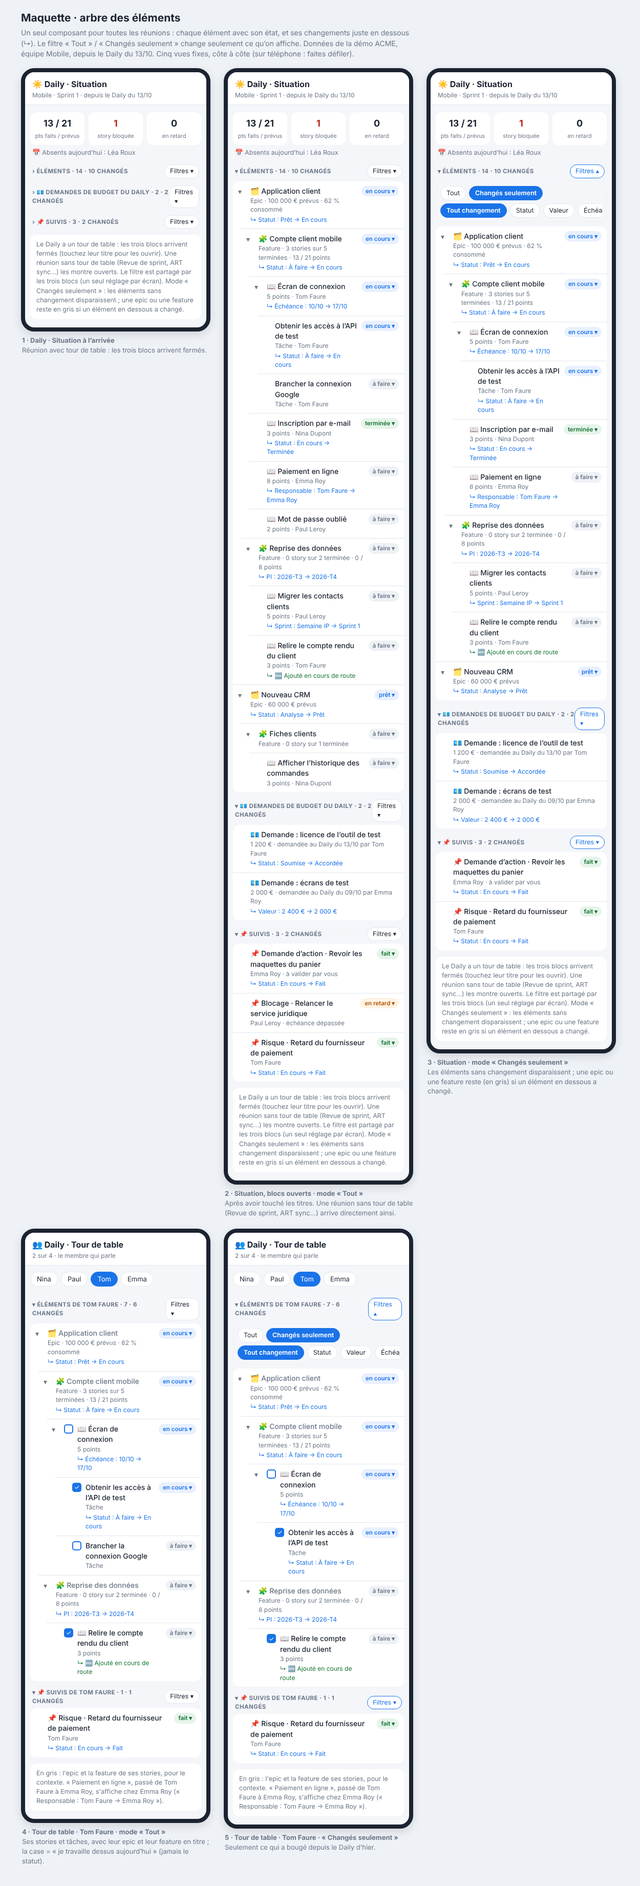
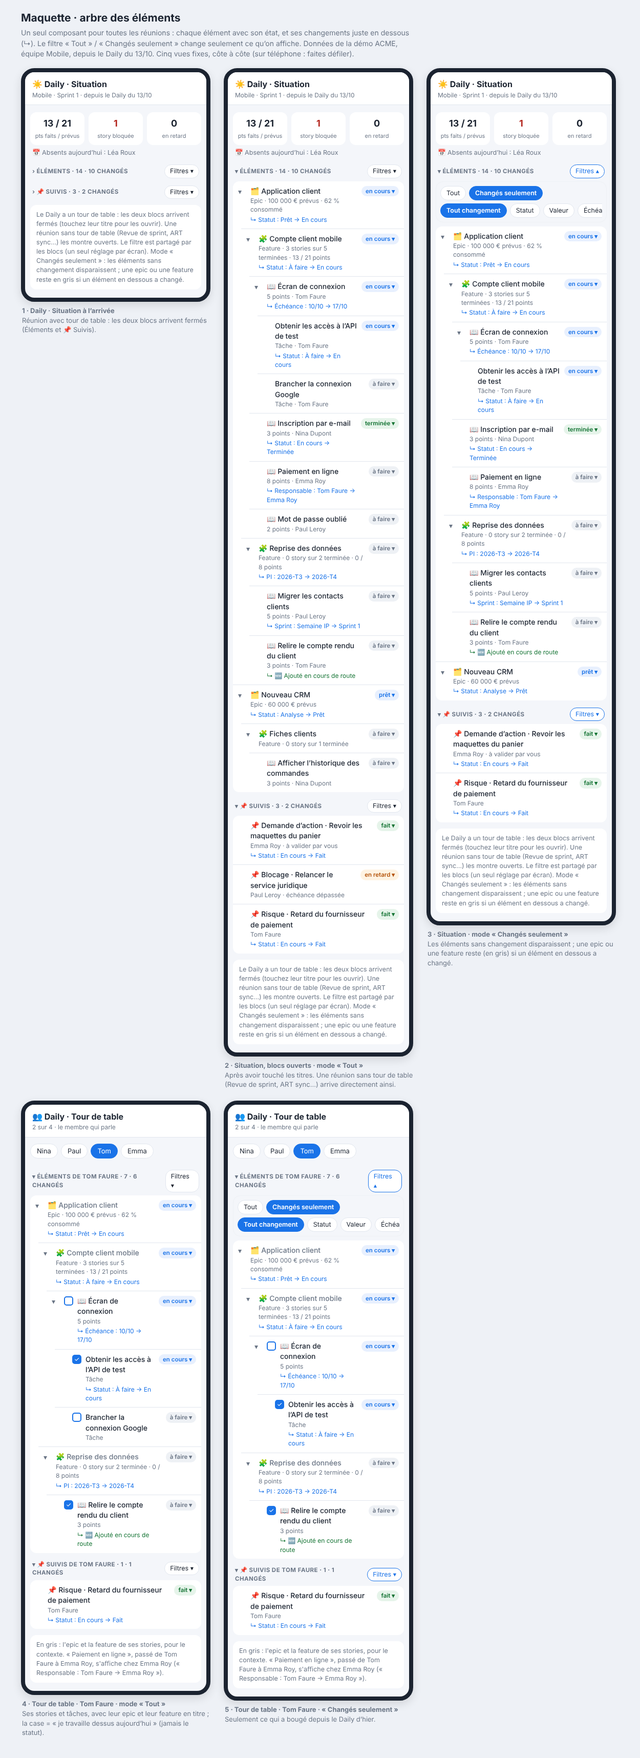
Maquette de l'arbre : pas de bloc budget au Daily (une demande à suivre l'est par un suivi)
Claude-Session: https://claude.ai/code/session_01NqfD5QsV4p5L1RMm4JPLKo

diff --git a/docs/maquette-arbre.html b/docs/maquette-arbre.html
@@ -54,11 +54,10 @@ h1{font-size:21px;margin:0 0 4px}.intro{color:var(--doux);margin:0 0 18px;max-wi
     <div class="tuiles"><div class="tuile"><b>13 / 21</b><span>pts faits / prévus</span></div><div class="tuile"><b class="r" style="color:var(--rouge)">1</b><span>story bloquée</span></div><div class="tuile"><b>0</b><span>en retard</span></div></div>
     <div style="font-size:12.5px;color:var(--doux);margin:4px 4px 0">📅 Absents aujourd’hui : Léa Roux</div>
     <div class="sec"><h3 style="cursor:pointer" data-bloc="sit" data-id="el">› Éléments · 14 · 10 changés</h3><span class="pfiltre " data-o="sit" data-b="el">Filtres ▾</span></div>
-  <div class="sec"><h3 style="cursor:pointer" data-bloc="sit" data-id="bu">› 💶 Demandes de budget du Daily · 2 · 2 changés</h3><span class="pfiltre " data-o="sit" data-b="bu">Filtres ▾</span></div>
   <div class="sec"><h3 style="cursor:pointer" data-bloc="sit" data-id="su">› 📌 Suivis · 3 · 2 changés</h3><span class="pfiltre " data-o="sit" data-b="su">Filtres ▾</span></div>
   
-    <div class="note">Le Daily a un tour de table : les trois blocs arrivent fermés (touchez leur titre pour les ouvrir). Une réunion sans tour de table (Revue de sprint, ART sync…) les montre ouverts. Le filtre est partagé par les trois blocs (un seul réglage par écran). Mode « Changés seulement » : les éléments sans changement disparaissent ; une epic ou une feature reste en gris si un élément en dessous a changé.</div></div></div>
-    <p class="legende"><b>1 · Daily · Situation à l’arrivée</b><br>Réunion avec tour de table : les trois blocs arrivent fermés.</p>
+    <div class="note">Le Daily a un tour de table : les deux blocs arrivent fermés (touchez leur titre pour les ouvrir). Une réunion sans tour de table (Revue de sprint, ART sync…) les montre ouverts. Le filtre est partagé par les blocs (un seul réglage par écran). Mode « Changés seulement » : les éléments sans changement disparaissent ; une epic ou une feature reste en gris si un élément en dessous a changé.</div></div></div>
+    <p class="legende"><b>1 · Daily · Situation à l’arrivée</b><br>Réunion avec tour de table : les deux blocs arrivent fermés (Éléments et 📌 Suivis).</p>
   </div>
   <div>
     <div class="tel"><div class="haut"><div class="t">☀ Daily · Situation</div><div class="st">Mobile · Sprint 1 · depuis le Daily du 13/10</div></div><div class="corps">
@@ -66,12 +65,10 @@ h1{font-size:21px;margin:0 0 4px}.intro{color:var(--doux);margin:0 0 18px;max-wi
     <div style="font-size:12.5px;color:var(--doux);margin:4px 4px 0">📅 Absents aujourd’hui : Léa Roux</div>
     <div class="sec"><h3 style="cursor:pointer" data-bloc="sit" data-id="el">▾ Éléments · 14 · 10 changés</h3><span class="pfiltre " data-o="sit" data-b="el">Filtres ▾</span></div>
   
-  <div class="carte"><div class="noeud"><div class="ligne "><span class="fl" data-e="sit" data-n="e1">▾</span><div class="l1"><div class="ti">🗂 Application client</div><div class="s">Epic · 100 000 € prévus · 62 % consommé</div><div class="ch ">↳ Statut : Prêt → En cours</div></div><span class="past p-e">en cours ▾</span></div><div class="enfants"><div class="noeud"><div class="ligne "><span class="fl" data-e="sit" data-n="f1">▾</span><div class="l1"><div class="ti">🧩 Compte client mobile</div><div class="s">Feature · 3 stories sur 5 terminées · 13 / 21 points</div><div class="ch ">↳ Statut : À faire → En cours</div></div><span class="past p-e">en cours ▾</span></div><div class="enfants"><div class="noeud"><div class="ligne "><span class="fl" data-e="sit" data-n="s1">▾</span><div class="l1"><div class="ti">📖 Écran de connexion</div><div class="s">5 points · Tom Faure</div><div class="ch ">↳ Échéance : 10/10 → 17/10</div></div><span class="past p-e">en cours ▾</span></div><div class="enfants"><div class="noeud"><div class="ligne "><span class="fl"></span><div class="l1"><div class="ti">Obtenir les accès à l’API de test</div><div class="s">Tâche · Tom Faure</div><div class="ch ">↳ Statut : À faire → En cours</div></div><span class="past p-e">en cours ▾</span></div></div><div class="noeud"><div class="ligne "><span class="fl"></span><div class="l1"><div class="ti">Brancher la connexion Google</div><div class="s">Tâche · Tom Faure</div></div><span class="past p-a">à faire ▾</span></div></div></div></div><div class="noeud"><div class="ligne "><span class="fl"></span><div class="l1"><div class="ti">📖 Inscription par e-mail</div><div class="s">3 points · Nina Dupont</div><div class="ch ">↳ Statut : En cours → Terminée</div></div><span class="past p-t">terminée ▾</span></div></div><div class="noeud"><div class="ligne "><span class="fl"></span><div class="l1"><div class="ti">📖 Paiement en ligne</div><div class="s">8 points · Emma Roy</div><div class="ch ">↳ Responsable : Tom Faure → Emma Roy</div></div><span class="past p-a">à faire ▾</span></div></div><div class="noeud"><div class="ligne "><span class="fl"></span><div class="l1"><div class="ti">📖 Mot de passe oublié</div><div class="s">2 points · Paul Leroy</div></div><span class="past p-a">à faire ▾</span></div></div></div></div><div class="noeud"><div class="ligne "><span class="fl" data-e="sit" data-n="f2">▾</span><div class="l1"><div class="ti">🧩 Reprise des données</div><div class="s">Feature · 0 story sur 2 terminée · 0 / 8 points</div><div class="ch ">↳ PI : 2026-T3 → 2026-T4</div></div><span class="past p-a">à faire ▾</span></div><div class="enfants"><div class="noeud"><div class="ligne "><span class="fl"></span><div class="l1"><div class="ti">📖 Migrer les contacts clients</div><div class="s">5 points · Paul Leroy</div><div class="ch ">↳ Sprint : Semaine IP → Sprint 1</div></div><span class="past p-a">à faire ▾</span></div></div><div class="noeud"><div class="ligne "><span class="fl"></span><div class="l1"><div class="ti">📖 Relire le compte rendu du client</div><div class="s">3 points · Tom Faure</div><div class="ch nouv">↳ 🆕 Ajouté en cours de route</div></div><span class="past p-a">à faire ▾</span></div></div></div></div></div></div><div class="noeud"><div class="ligne "><span class="fl" data-e="sit" data-n="e2">▾</span><div class="l1"><div class="ti">🗂 Nouveau CRM</div><div class="s">Epic · 60 000 € prévus</div><div class="ch ">↳ Statut : Analyse → Prêt</div></div><span class="past p-e">prêt ▾</span></div><div class="enfants"><div class="noeud"><div class="ligne "><span class="fl" data-e="sit" data-n="f3">▾</span><div class="l1"><div class="ti">🧩 Fiches clients</div><div class="s">Feature · 0 story sur 1 terminée</div></div><span class="past p-a">à faire ▾</span></div><div class="enfants"><div class="noeud"><div class="ligne "><span class="fl"></span><div class="l1"><div class="ti">📖 Afficher l’historique des commandes</div><div class="s">3 points · Nina Dupont</div></div><span class="past p-a">à faire ▾</span></div></div></div></div></div></div></div><div class="sec"><h3 style="cursor:pointer" data-bloc="sit" data-id="bu">▾ 💶 Demandes de budget du Daily · 2 · 2 changés</h3><span class="pfiltre " data-o="sit" data-b="bu">Filtres ▾</span></div>
-  
-  <div class="carte"><div class="noeud"><div class="ligne "><span class="fl"></span><div class="l1"><div class="ti">💶 Demande : licence de l’outil de test</div><div class="s">1 200 € · demandée au Daily du 13/10 par Tom Faure</div><div class="ch ">↳ Statut : Soumise → Accordée</div></div></div></div><div class="noeud"><div class="ligne "><span class="fl"></span><div class="l1"><div class="ti">💶 Demande : écrans de test</div><div class="s">2 000 € · demandée au Daily du 09/10 par Emma Roy</div><div class="ch ">↳ Valeur : 2 400 € → 2 000 €</div></div></div></div></div><div class="sec"><h3 style="cursor:pointer" data-bloc="sit" data-id="su">▾ 📌 Suivis · 3 · 2 changés</h3><span class="pfiltre " data-o="sit" data-b="su">Filtres ▾</span></div>
+  <div class="carte"><div class="noeud"><div class="ligne "><span class="fl" data-e="sit" data-n="e1">▾</span><div class="l1"><div class="ti">🗂 Application client</div><div class="s">Epic · 100 000 € prévus · 62 % consommé</div><div class="ch ">↳ Statut : Prêt → En cours</div></div><span class="past p-e">en cours ▾</span></div><div class="enfants"><div class="noeud"><div class="ligne "><span class="fl" data-e="sit" data-n="f1">▾</span><div class="l1"><div class="ti">🧩 Compte client mobile</div><div class="s">Feature · 3 stories sur 5 terminées · 13 / 21 points</div><div class="ch ">↳ Statut : À faire → En cours</div></div><span class="past p-e">en cours ▾</span></div><div class="enfants"><div class="noeud"><div class="ligne "><span class="fl" data-e="sit" data-n="s1">▾</span><div class="l1"><div class="ti">📖 Écran de connexion</div><div class="s">5 points · Tom Faure</div><div class="ch ">↳ Échéance : 10/10 → 17/10</div></div><span class="past p-e">en cours ▾</span></div><div class="enfants"><div class="noeud"><div class="ligne "><span class="fl"></span><div class="l1"><div class="ti">Obtenir les accès à l’API de test</div><div class="s">Tâche · Tom Faure</div><div class="ch ">↳ Statut : À faire → En cours</div></div><span class="past p-e">en cours ▾</span></div></div><div class="noeud"><div class="ligne "><span class="fl"></span><div class="l1"><div class="ti">Brancher la connexion Google</div><div class="s">Tâche · Tom Faure</div></div><span class="past p-a">à faire ▾</span></div></div></div></div><div class="noeud"><div class="ligne "><span class="fl"></span><div class="l1"><div class="ti">📖 Inscription par e-mail</div><div class="s">3 points · Nina Dupont</div><div class="ch ">↳ Statut : En cours → Terminée</div></div><span class="past p-t">terminée ▾</span></div></div><div class="noeud"><div class="ligne "><span class="fl"></span><div class="l1"><div class="ti">📖 Paiement en ligne</div><div class="s">8 points · Emma Roy</div><div class="ch ">↳ Responsable : Tom Faure → Emma Roy</div></div><span class="past p-a">à faire ▾</span></div></div><div class="noeud"><div class="ligne "><span class="fl"></span><div class="l1"><div class="ti">📖 Mot de passe oublié</div><div class="s">2 points · Paul Leroy</div></div><span class="past p-a">à faire ▾</span></div></div></div></div><div class="noeud"><div class="ligne "><span class="fl" data-e="sit" data-n="f2">▾</span><div class="l1"><div class="ti">🧩 Reprise des données</div><div class="s">Feature · 0 story sur 2 terminée · 0 / 8 points</div><div class="ch ">↳ PI : 2026-T3 → 2026-T4</div></div><span class="past p-a">à faire ▾</span></div><div class="enfants"><div class="noeud"><div class="ligne "><span class="fl"></span><div class="l1"><div class="ti">📖 Migrer les contacts clients</div><div class="s">5 points · Paul Leroy</div><div class="ch ">↳ Sprint : Semaine IP → Sprint 1</div></div><span class="past p-a">à faire ▾</span></div></div><div class="noeud"><div class="ligne "><span class="fl"></span><div class="l1"><div class="ti">📖 Relire le compte rendu du client</div><div class="s">3 points · Tom Faure</div><div class="ch nouv">↳ 🆕 Ajouté en cours de route</div></div><span class="past p-a">à faire ▾</span></div></div></div></div></div></div><div class="noeud"><div class="ligne "><span class="fl" data-e="sit" data-n="e2">▾</span><div class="l1"><div class="ti">🗂 Nouveau CRM</div><div class="s">Epic · 60 000 € prévus</div><div class="ch ">↳ Statut : Analyse → Prêt</div></div><span class="past p-e">prêt ▾</span></div><div class="enfants"><div class="noeud"><div class="ligne "><span class="fl" data-e="sit" data-n="f3">▾</span><div class="l1"><div class="ti">🧩 Fiches clients</div><div class="s">Feature · 0 story sur 1 terminée</div></div><span class="past p-a">à faire ▾</span></div><div class="enfants"><div class="noeud"><div class="ligne "><span class="fl"></span><div class="l1"><div class="ti">📖 Afficher l’historique des commandes</div><div class="s">3 points · Nina Dupont</div></div><span class="past p-a">à faire ▾</span></div></div></div></div></div></div></div><div class="sec"><h3 style="cursor:pointer" data-bloc="sit" data-id="su">▾ 📌 Suivis · 3 · 2 changés</h3><span class="pfiltre " data-o="sit" data-b="su">Filtres ▾</span></div>
   
   <div class="carte"><div class="noeud"><div class="ligne "><span class="fl"></span><div class="l1"><div class="ti">📌 Demande d’action · Revoir les maquettes du panier</div><div class="s">Emma Roy · à valider par vous</div><div class="ch ">↳ Statut : En cours → Fait</div></div><span class="past p-t">fait ▾</span></div></div><div class="noeud"><div class="ligne "><span class="fl"></span><div class="l1"><div class="ti">📌 Blocage · Relancer le service juridique</div><div class="s">Paul Leroy · échéance dépassée</div></div><span class="past p-o">en retard ▾</span></div></div><div class="noeud"><div class="ligne "><span class="fl"></span><div class="l1"><div class="ti">📌 Risque · Retard du fournisseur de paiement</div><div class="s">Tom Faure</div><div class="ch ">↳ Statut : En cours → Fait</div></div><span class="past p-t">fait ▾</span></div></div></div>
-    <div class="note">Le Daily a un tour de table : les trois blocs arrivent fermés (touchez leur titre pour les ouvrir). Une réunion sans tour de table (Revue de sprint, ART sync…) les montre ouverts. Le filtre est partagé par les trois blocs (un seul réglage par écran). Mode « Changés seulement » : les éléments sans changement disparaissent ; une epic ou une feature reste en gris si un élément en dessous a changé.</div></div></div>
+    <div class="note">Le Daily a un tour de table : les deux blocs arrivent fermés (touchez leur titre pour les ouvrir). Une réunion sans tour de table (Revue de sprint, ART sync…) les montre ouverts. Le filtre est partagé par les blocs (un seul réglage par écran). Mode « Changés seulement » : les éléments sans changement disparaissent ; une epic ou une feature reste en gris si un élément en dessous a changé.</div></div></div>
     <p class="legende"><b>2 · Situation, blocs ouverts · mode « Tout »</b><br>Après avoir touché les titres. Une réunion sans tour de table (Revue de sprint, ART sync…) arrive directement ainsi.</p>
   </div>
   <div>
@@ -80,12 +77,10 @@ h1{font-size:21px;margin:0 0 4px}.intro{color:var(--doux);margin:0 0 18px;max-wi
     <div style="font-size:12.5px;color:var(--doux);margin:4px 4px 0">📅 Absents aujourd’hui : Léa Roux</div>
     <div class="sec"><h3 style="cursor:pointer" data-bloc="sit" data-id="el">▾ Éléments · 14 · 10 changés</h3><span class="pfiltre actif" data-o="sit" data-b="el">Filtres ▴</span></div>
   <div class="filtres"><div class="rangee"><span class="chip " data-f="sit" data-k="mode" data-v="tout">Tout</span><span class="chip on" data-f="sit" data-k="mode" data-v="changes">Changés seulement</span></div><div class="rangee"><span class="chip on" data-f="sit" data-k="sorte" data-v="">Tout changement</span><span class="chip " data-f="sit" data-k="sorte" data-v="statut">Statut</span><span class="chip " data-f="sit" data-k="sorte" data-v="valeur">Valeur</span><span class="chip " data-f="sit" data-k="sorte" data-v="echeance">Échéance</span><span class="chip " data-f="sit" data-k="sorte" data-v="planning">Sprint ou PI</span><span class="chip " data-f="sit" data-k="sorte" data-v="responsable">Responsable</span><span class="chip " data-f="sit" data-k="sorte" data-v="ajoute">Ajouté</span></div></div>
-  <div class="carte"><div class="noeud"><div class="ligne "><span class="fl" data-e="sit" data-n="e1">▾</span><div class="l1"><div class="ti">🗂 Application client</div><div class="s">Epic · 100 000 € prévus · 62 % consommé</div><div class="ch ">↳ Statut : Prêt → En cours</div></div><span class="past p-e">en cours ▾</span></div><div class="enfants"><div class="noeud"><div class="ligne "><span class="fl" data-e="sit" data-n="f1">▾</span><div class="l1"><div class="ti">🧩 Compte client mobile</div><div class="s">Feature · 3 stories sur 5 terminées · 13 / 21 points</div><div class="ch ">↳ Statut : À faire → En cours</div></div><span class="past p-e">en cours ▾</span></div><div class="enfants"><div class="noeud"><div class="ligne "><span class="fl" data-e="sit" data-n="s1">▾</span><div class="l1"><div class="ti">📖 Écran de connexion</div><div class="s">5 points · Tom Faure</div><div class="ch ">↳ Échéance : 10/10 → 17/10</div></div><span class="past p-e">en cours ▾</span></div><div class="enfants"><div class="noeud"><div class="ligne "><span class="fl"></span><div class="l1"><div class="ti">Obtenir les accès à l’API de test</div><div class="s">Tâche · Tom Faure</div><div class="ch ">↳ Statut : À faire → En cours</div></div><span class="past p-e">en cours ▾</span></div></div></div></div><div class="noeud"><div class="ligne "><span class="fl"></span><div class="l1"><div class="ti">📖 Inscription par e-mail</div><div class="s">3 points · Nina Dupont</div><div class="ch ">↳ Statut : En cours → Terminée</div></div><span class="past p-t">terminée ▾</span></div></div><div class="noeud"><div class="ligne "><span class="fl"></span><div class="l1"><div class="ti">📖 Paiement en ligne</div><div class="s">8 points · Emma Roy</div><div class="ch ">↳ Responsable : Tom Faure → Emma Roy</div></div><span class="past p-a">à faire ▾</span></div></div></div></div><div class="noeud"><div class="ligne "><span class="fl" data-e="sit" data-n="f2">▾</span><div class="l1"><div class="ti">🧩 Reprise des données</div><div class="s">Feature · 0 story sur 2 terminée · 0 / 8 points</div><div class="ch ">↳ PI : 2026-T3 → 2026-T4</div></div><span class="past p-a">à faire ▾</span></div><div class="enfants"><div class="noeud"><div class="ligne "><span class="fl"></span><div class="l1"><div class="ti">📖 Migrer les contacts clients</div><div class="s">5 points · Paul Leroy</div><div class="ch ">↳ Sprint : Semaine IP → Sprint 1</div></div><span class="past p-a">à faire ▾</span></div></div><div class="noeud"><div class="ligne "><span class="fl"></span><div class="l1"><div class="ti">📖 Relire le compte rendu du client</div><div class="s">3 points · Tom Faure</div><div class="ch nouv">↳ 🆕 Ajouté en cours de route</div></div><span class="past p-a">à faire ▾</span></div></div></div></div></div></div><div class="noeud"><div class="ligne "><span class="fl" data-e="sit" data-n="e2">▾</span><div class="l1"><div class="ti">🗂 Nouveau CRM</div><div class="s">Epic · 60 000 € prévus</div><div class="ch ">↳ Statut : Analyse → Prêt</div></div><span class="past p-e">prêt ▾</span></div></div></div><div class="sec"><h3 style="cursor:pointer" data-bloc="sit" data-id="bu">▾ 💶 Demandes de budget du Daily · 2 · 2 changés</h3><span class="pfiltre actif" data-o="sit" data-b="bu">Filtres ▾</span></div>
-  
-  <div class="carte"><div class="noeud"><div class="ligne "><span class="fl"></span><div class="l1"><div class="ti">💶 Demande : licence de l’outil de test</div><div class="s">1 200 € · demandée au Daily du 13/10 par Tom Faure</div><div class="ch ">↳ Statut : Soumise → Accordée</div></div></div></div><div class="noeud"><div class="ligne "><span class="fl"></span><div class="l1"><div class="ti">💶 Demande : écrans de test</div><div class="s">2 000 € · demandée au Daily du 09/10 par Emma Roy</div><div class="ch ">↳ Valeur : 2 400 € → 2 000 €</div></div></div></div></div><div class="sec"><h3 style="cursor:pointer" data-bloc="sit" data-id="su">▾ 📌 Suivis · 3 · 2 changés</h3><span class="pfiltre actif" data-o="sit" data-b="su">Filtres ▾</span></div>
+  <div class="carte"><div class="noeud"><div class="ligne "><span class="fl" data-e="sit" data-n="e1">▾</span><div class="l1"><div class="ti">🗂 Application client</div><div class="s">Epic · 100 000 € prévus · 62 % consommé</div><div class="ch ">↳ Statut : Prêt → En cours</div></div><span class="past p-e">en cours ▾</span></div><div class="enfants"><div class="noeud"><div class="ligne "><span class="fl" data-e="sit" data-n="f1">▾</span><div class="l1"><div class="ti">🧩 Compte client mobile</div><div class="s">Feature · 3 stories sur 5 terminées · 13 / 21 points</div><div class="ch ">↳ Statut : À faire → En cours</div></div><span class="past p-e">en cours ▾</span></div><div class="enfants"><div class="noeud"><div class="ligne "><span class="fl" data-e="sit" data-n="s1">▾</span><div class="l1"><div class="ti">📖 Écran de connexion</div><div class="s">5 points · Tom Faure</div><div class="ch ">↳ Échéance : 10/10 → 17/10</div></div><span class="past p-e">en cours ▾</span></div><div class="enfants"><div class="noeud"><div class="ligne "><span class="fl"></span><div class="l1"><div class="ti">Obtenir les accès à l’API de test</div><div class="s">Tâche · Tom Faure</div><div class="ch ">↳ Statut : À faire → En cours</div></div><span class="past p-e">en cours ▾</span></div></div></div></div><div class="noeud"><div class="ligne "><span class="fl"></span><div class="l1"><div class="ti">📖 Inscription par e-mail</div><div class="s">3 points · Nina Dupont</div><div class="ch ">↳ Statut : En cours → Terminée</div></div><span class="past p-t">terminée ▾</span></div></div><div class="noeud"><div class="ligne "><span class="fl"></span><div class="l1"><div class="ti">📖 Paiement en ligne</div><div class="s">8 points · Emma Roy</div><div class="ch ">↳ Responsable : Tom Faure → Emma Roy</div></div><span class="past p-a">à faire ▾</span></div></div></div></div><div class="noeud"><div class="ligne "><span class="fl" data-e="sit" data-n="f2">▾</span><div class="l1"><div class="ti">🧩 Reprise des données</div><div class="s">Feature · 0 story sur 2 terminée · 0 / 8 points</div><div class="ch ">↳ PI : 2026-T3 → 2026-T4</div></div><span class="past p-a">à faire ▾</span></div><div class="enfants"><div class="noeud"><div class="ligne "><span class="fl"></span><div class="l1"><div class="ti">📖 Migrer les contacts clients</div><div class="s">5 points · Paul Leroy</div><div class="ch ">↳ Sprint : Semaine IP → Sprint 1</div></div><span class="past p-a">à faire ▾</span></div></div><div class="noeud"><div class="ligne "><span class="fl"></span><div class="l1"><div class="ti">📖 Relire le compte rendu du client</div><div class="s">3 points · Tom Faure</div><div class="ch nouv">↳ 🆕 Ajouté en cours de route</div></div><span class="past p-a">à faire ▾</span></div></div></div></div></div></div><div class="noeud"><div class="ligne "><span class="fl" data-e="sit" data-n="e2">▾</span><div class="l1"><div class="ti">🗂 Nouveau CRM</div><div class="s">Epic · 60 000 € prévus</div><div class="ch ">↳ Statut : Analyse → Prêt</div></div><span class="past p-e">prêt ▾</span></div></div></div><div class="sec"><h3 style="cursor:pointer" data-bloc="sit" data-id="su">▾ 📌 Suivis · 3 · 2 changés</h3><span class="pfiltre actif" data-o="sit" data-b="su">Filtres ▾</span></div>
   
   <div class="carte"><div class="noeud"><div class="ligne "><span class="fl"></span><div class="l1"><div class="ti">📌 Demande d’action · Revoir les maquettes du panier</div><div class="s">Emma Roy · à valider par vous</div><div class="ch ">↳ Statut : En cours → Fait</div></div><span class="past p-t">fait ▾</span></div></div><div class="noeud"><div class="ligne "><span class="fl"></span><div class="l1"><div class="ti">📌 Risque · Retard du fournisseur de paiement</div><div class="s">Tom Faure</div><div class="ch ">↳ Statut : En cours → Fait</div></div><span class="past p-t">fait ▾</span></div></div></div>
-    <div class="note">Le Daily a un tour de table : les trois blocs arrivent fermés (touchez leur titre pour les ouvrir). Une réunion sans tour de table (Revue de sprint, ART sync…) les montre ouverts. Le filtre est partagé par les trois blocs (un seul réglage par écran). Mode « Changés seulement » : les éléments sans changement disparaissent ; une epic ou une feature reste en gris si un élément en dessous a changé.</div></div></div>
+    <div class="note">Le Daily a un tour de table : les deux blocs arrivent fermés (touchez leur titre pour les ouvrir). Une réunion sans tour de table (Revue de sprint, ART sync…) les montre ouverts. Le filtre est partagé par les blocs (un seul réglage par écran). Mode « Changés seulement » : les éléments sans changement disparaissent ; une epic ou une feature reste en gris si un élément en dessous a changé.</div></div></div>
     <p class="legende"><b>3 · Situation · mode « Changés seulement »</b><br>Les éléments sans changement disparaissent ; une epic ou une feature reste (en gris) si un élément en dessous a changé.</p>
   </div>
   <div>

diff --git a/docs/maquette-arbre-interactive.html b/docs/maquette-arbre-interactive.html
@@ -51,7 +51,7 @@ h1{font-size:21px;margin:0 0 4px}.intro{color:var(--doux);margin:0 0 18px;max-wi
 <div class="ecrans">
   <div>
     <div class="tel" id="sit"></div>
-    <p class="legende"><b>Daily · Situation</b> : toute l'équipe ; trois blocs fermés au départ (tour de table ensuite) : Éléments, 💶 Demandes de budget du Daily, 📌 Suivis.</p>
+    <p class="legende"><b>Daily · Situation</b> : toute l'équipe ; deux blocs fermés au départ (tour de table ensuite) : Éléments et 📌 Suivis. Pas de bloc budget au Daily : une demande de budget à suivre l’est par un suivi.</p>
   </div>
   <div>
     <div class="tel" id="tour"></div>
@@ -102,7 +102,7 @@ function etat() { return { mode: 'tout', sorte: '', seuil: 0, ferme: new Set(), 
 const E = { sit: etat(), tour: etat() };
 E.tour.coches = new Set(['t1', 's6']);
 // Réunion avec tour de table : la Situation s'ouvre avec ses blocs fermés (le détail vient au tour de table)
-E.sit.blocs = new Set(['el', 'bu', 'su']);
+E.sit.blocs = new Set(['el', 'su']);
 E.tour.membre = 'Tom Faure';
 
 const changes = (n, f) => (n.ch || []).filter(([s, , pct]) => (!f.sorte || s === f.sorte) && !(s === 'valeur' && f.seuil && pct !== undefined && pct < f.seuil));
@@ -145,8 +145,8 @@ function rendre() {
   document.getElementById('sit').innerHTML = `<div class="haut"><div class="t">☀ Daily · Situation</div><div class="st">Mobile · Sprint 1 · depuis le Daily du 13/10</div></div><div class="corps">
     <div class="tuiles"><div class="tuile"><b>13 / 21</b><span>pts faits / prévus</span></div><div class="tuile"><b class="r" style="color:var(--rouge)">1</b><span>story bloquée</span></div><div class="tuile"><b>0</b><span>en retard</span></div></div>
     <div style="font-size:12.5px;color:var(--doux);margin:4px 4px 0">📅 Absents aujourd’hui : Léa Roux</div>
-    ${bloc('sit', 'el', 'Éléments', ARBRE, false, false)}${bloc('sit', 'bu', '💶 Demandes de budget du Daily', BUDGET, false, true)}${bloc('sit', 'su', '📌 Suivis', SUIVIS, false, false)}
-    <div class="note">Le Daily a un tour de table : les trois blocs arrivent fermés (touchez leur titre pour les ouvrir). Une réunion sans tour de table (Revue de sprint, ART sync…) les montre ouverts. Le filtre est partagé par les trois blocs (un seul réglage par écran). Mode « Changés seulement » : les éléments sans changement disparaissent ; une epic ou une feature reste en gris si un élément en dessous a changé.</div></div>`;
+    ${bloc('sit', 'el', 'Éléments', ARBRE, false, false)}${bloc('sit', 'su', '📌 Suivis', SUIVIS, false, false)}
+    <div class="note">Le Daily a un tour de table : les deux blocs arrivent fermés (touchez leur titre pour les ouvrir). Une réunion sans tour de table (Revue de sprint, ART sync…) les montre ouverts. Le filtre est partagé par les blocs (un seul réglage par écran). Mode « Changés seulement » : les éléments sans changement disparaissent ; une epic ou une feature reste en gris si un élément en dessous a changé.</div></div>`;
   const t = E.tour;
   const mien = pourMembre(ARBRE, t.membre);
   const suivis = SUIVIS.filter((x) => x.qui === t.membre);

diff --git a/docs/claude/a-faire.md b/docs/claude/a-faire.md
@@ -15,8 +15,8 @@ Décidé par l'utilisateur :
   statut).
 - Élément sorti de la liste (passé à un autre membre, sorti du sprint) : visible seulement là où il est maintenant,
   avec son changement (pas de doublon grisé).
-- Trois blocs à part, même composant et même filtre : Éléments (l'arbre), 💶 Budget, 📌 Suivis. Au Daily, le bloc
-  budget = seulement les demandes de budget faites au Daily.
+- Trois blocs à part, même composant et même filtre : Éléments (l'arbre), 💶 Budget, 📌 Suivis. Au Daily, pas de
+  bloc budget (14/10) : une demande de budget à suivre l'est par un suivi (📌), sinon on ne la suit pas.
 - Blocs et niveaux ouverts au départ, toujours refermables. Exception : réunion avec tour de table (Daily) : la
   Situation arrive avec ses blocs fermés, le tour de table les montre ouverts. Sans tour de table : ouverts.
 - Tableau du périmètre par réunion validé (équipe, membre, train, portfolio, Simple, perso).
